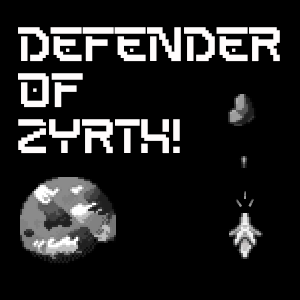
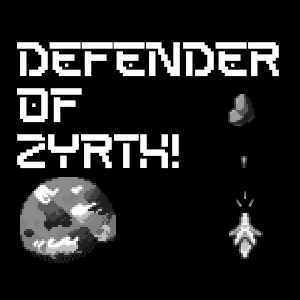
catching up on old files

Changed region(s): [[0.06, 0.09, 0.93, 0.57]]

diff --git a/setup.py b/setup.py
@@ -4,11 +4,11 @@ with open("README.md", "r") as fh:
     long_description = fh.read()
 
 setuptools.setup(
-    name="Gravity Wars",
-    version="0.0.1",
+    name="Defen the Zyrth!",
+    version="1.0.0",
     author="Gentry Atkinson",
-    author_email="gmatkins@gmail.com",
-    description="Package to create Gravity Wars",
+    author_email="SingleStarSW@gmail.com",
+    description="Defender of Zyrth",
     long_description=long_description,
     long_description_content_type="text/markdown",
     packages=setuptools.find_packages(),
@@ -17,4 +17,5 @@ setuptools.setup(
         "Operating System :: OS Independent",
     ],
     python_requires='>=3.7',
+    license='license.txt'
 )

diff --git a/README.md b/README.md
@@ -1,2 +1,17 @@
-# gravity_wars
-A space shooter game made in pygame
+# Defender of Zyrth!
+A space shooter game made in pygame. Visit https://www.pygame.org/news for
+information about making your own games.
+
+## Instructions
+-Left/Right Arrow:  rotate
+-Up Arrow:          thrust
+-Space:             fire
+
+Your shield will stop one enemy projectile. Any collision with an asteroid,
+planet, or enemy ship is fatal. Beat all 20 waves to protect the planet
+Zyrth.
+
+## Assets
+Several asset packs were used in the creation of this project.
+Check asset_list.txt for their names and the URLs where they can be purchased.
+No asset included in this game should copied or distributed.
